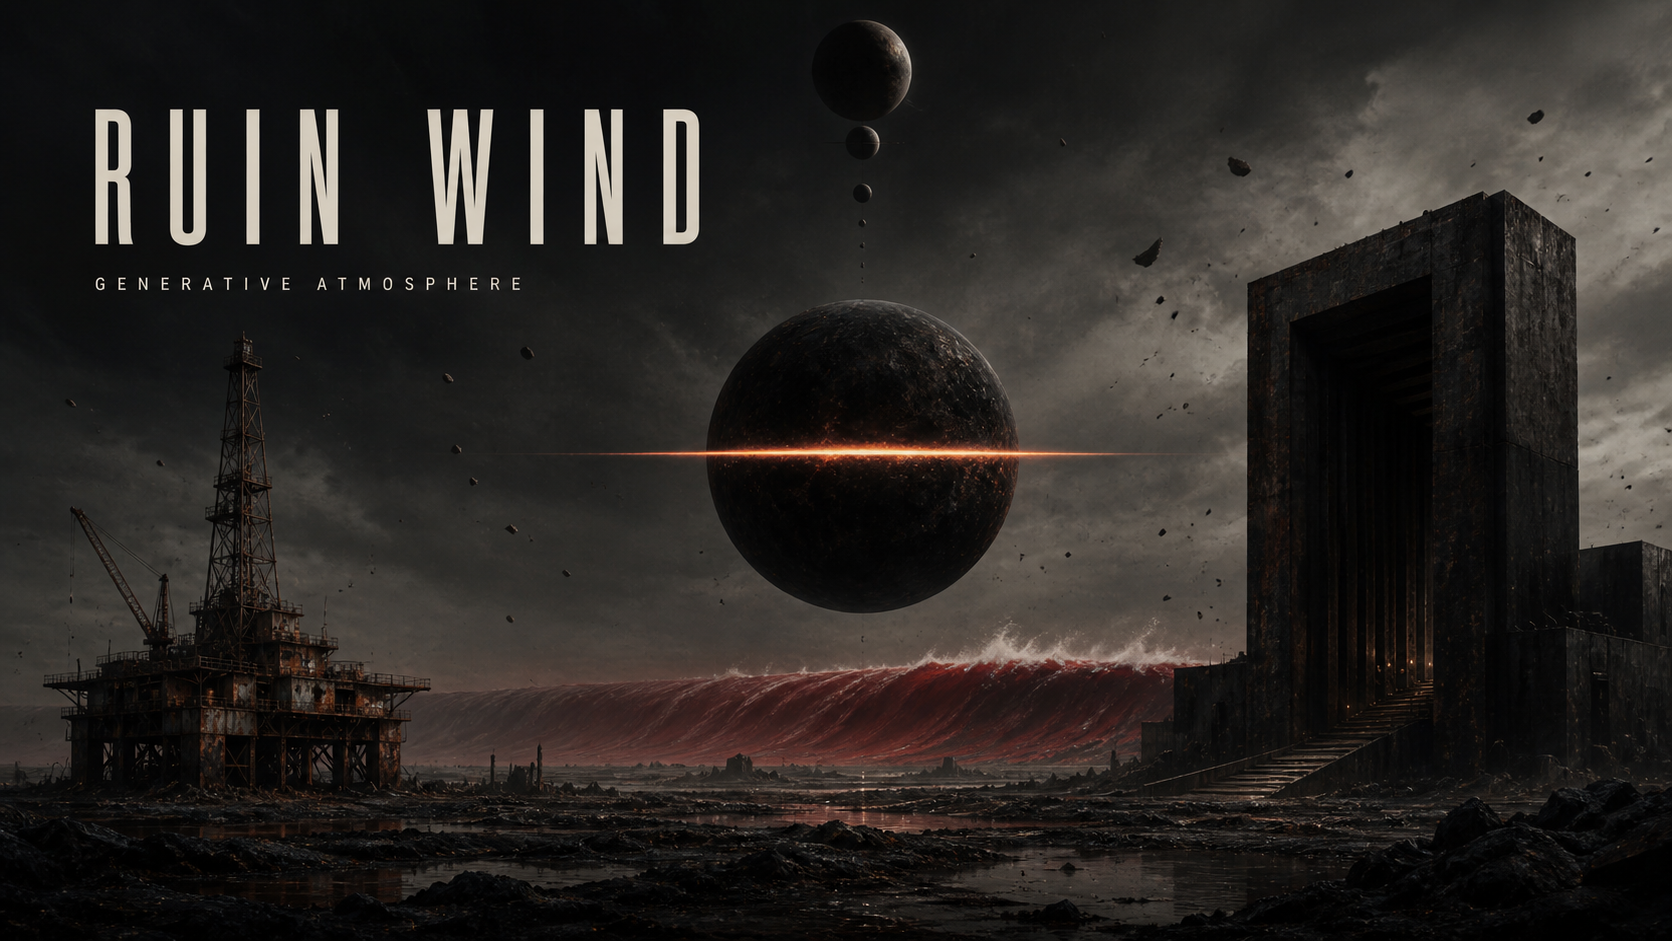
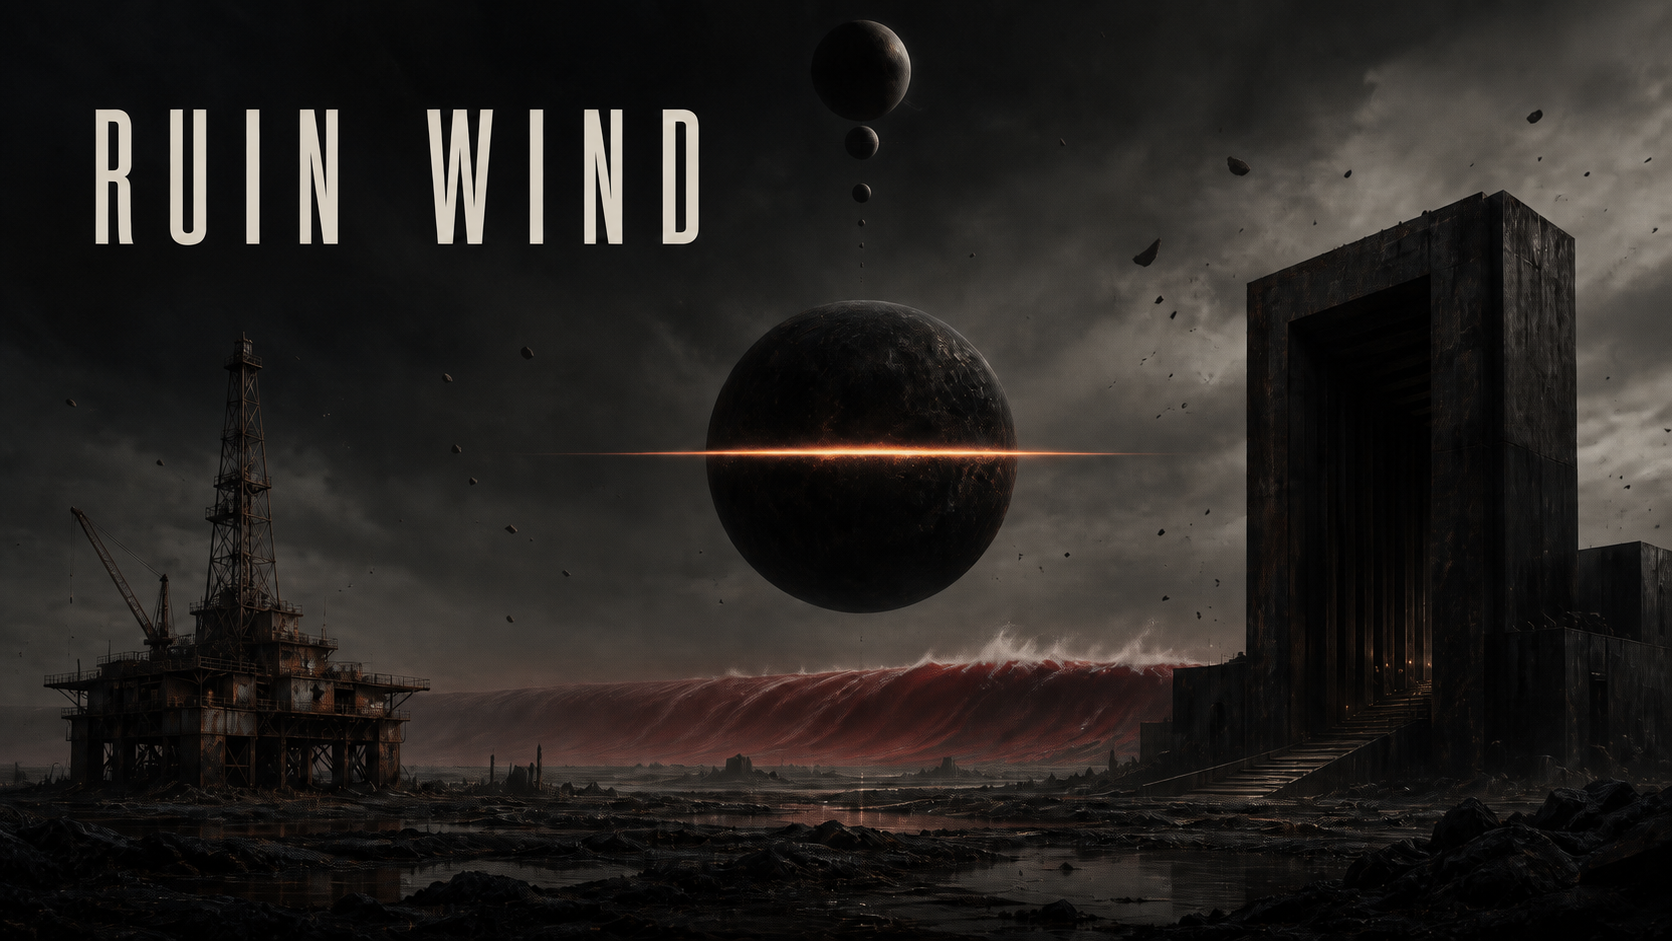
Remove generative wording from Ruin Wind

diff --git a/ruin-wind/index.html b/ruin-wind/index.html
@@ -5,16 +5,16 @@
   <meta name="viewport" content="width=device-width, initial-scale=1, viewport-fit=cover">
   <meta name="theme-color" content="#0a0a09">
   <title>Ruin Wind | Radwalls</title>
-  <meta name="description" content="A playable generative wind instrument for four worlds after the end.">
-  <meta property="og:title" content="Ruin Wind — Generative Atmosphere">
+  <meta name="description" content="A playable wind instrument for four worlds after the end.">
+  <meta property="og:title" content="Ruin Wind — Atmosphere">
   <meta property="og:description" content="Iron, glass, water and stone become weather.">
   <meta property="og:type" content="website">
   <meta property="og:url" content="https://www.radwall.com/ruin-wind/">
-  <meta property="og:image" content="https://www.radwall.com/ruin-wind/og.png">
+  <meta property="og:image" content="https://www.radwall.com/ruin-wind/og.png?v=2">
   <meta name="twitter:card" content="summary_large_image">
-  <meta name="twitter:title" content="Ruin Wind — Generative Atmosphere">
+  <meta name="twitter:title" content="Ruin Wind — Atmosphere">
   <meta name="twitter:description" content="Iron, glass, water and stone become weather.">
-  <meta name="twitter:image" content="https://www.radwall.com/ruin-wind/og.png">
+  <meta name="twitter:image" content="https://www.radwall.com/ruin-wind/og.png?v=2">
   <link rel="stylesheet" href="styles.css">
   <script src="wind.js?v=1.0.3" defer></script>
 </head>
@@ -26,7 +26,7 @@
     <header class="instrument-header">
       <div>
         <a class="home-link" href="../" aria-label="Return to radwall.com">← RADWALLS.COM</a>
-        <p class="eyebrow">GENERATIVE ATMOSPHERE / RW–04</p>
+        <p class="eyebrow">ATMOSPHERE / RW–04</p>
         <h1>Ruin Wind</h1>
       </div>
       <div class="transport" aria-label="Audio transport">

diff --git a/tests/ruin-wind.spec.js b/tests/ruin-wind.spec.js
@@ -32,6 +32,9 @@ test.describe("Ruin Wind", () => {
     await page.goto("/ruin-wind/");
     await expect(page).toHaveTitle(/Ruin Wind/);
     await expect(page.locator("h1")).toHaveText("Ruin Wind");
+    await expect(page.locator("body")).not.toContainText(/\bgenerative\b/i);
+    const document = await request.get("/ruin-wind/");
+    expect(await document.text()).not.toMatch(/\bgenerative\b/i);
     await expect(page.locator(".scene-button")).toHaveCount(4);
     await expect(page.locator("input[type='range']")).toHaveCount(7);
     await expect(page.locator("#howl")).toBeVisible();
